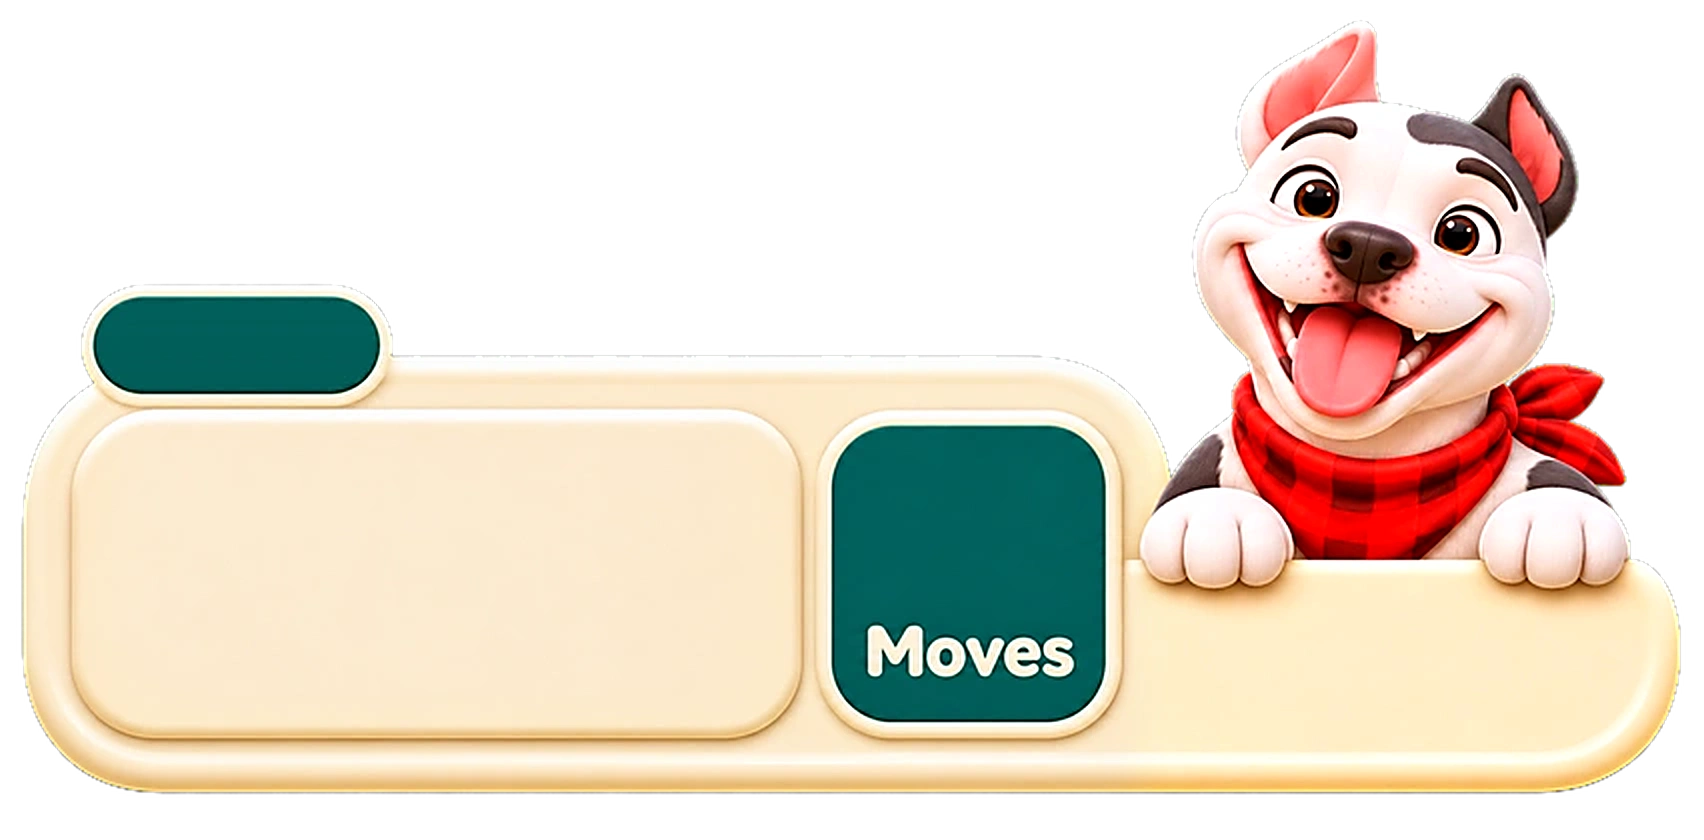
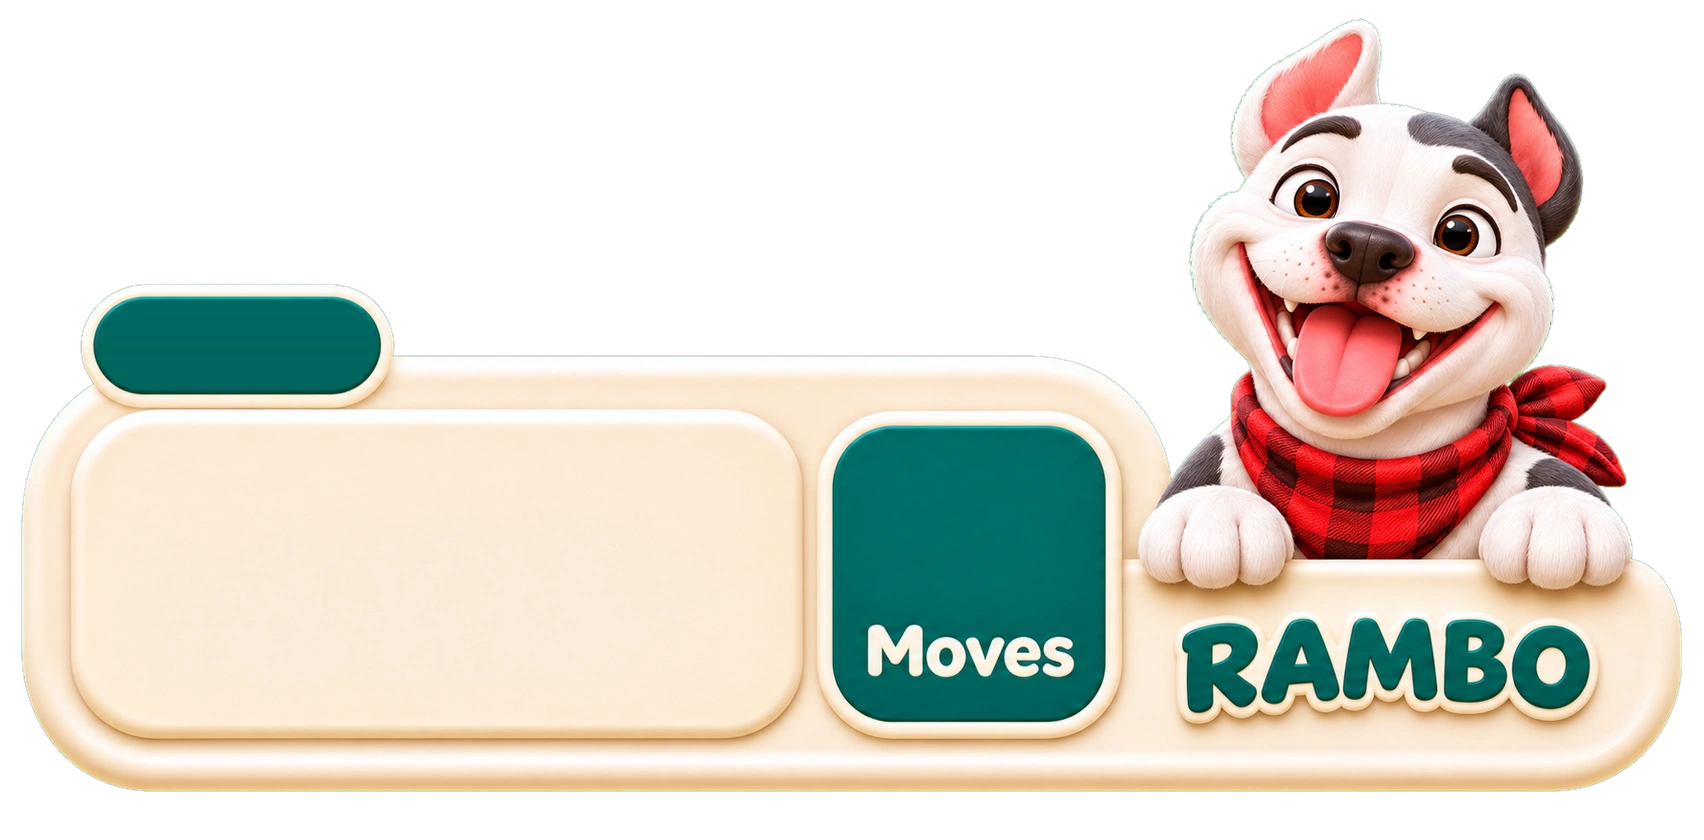
Top bar: ChatGPT 2x RAMBO version (sharp, vibrant)
Claude-Session: https://claude.ai/code/session_01HqXo8oXM9XTGkWGnUkjv9K

diff --git a/game_new.html b/game_new.html
@@ -736,7 +736,7 @@ $('pz').onclick=()=>{if(!S)return;showOv(`<img class="ttl2" src="a/L_t_paused.we
 window.T={get S(){return S},findMove,localMatch,trySwap,startLevel,LEVELS,setFast:v=>FAST=v,tapCell};
 document.body.dataset.bt=Q.get('bt')||'cream70';document.getElementById('topw').style.transform=`translate(10px,${Q.get('hu')??14}px) scale(.9)`;if(Q.get('dof'))document.body.dataset.dof=Q.get('dof');if(Q.get('calm'))document.body.dataset.calm=Q.get('calm');document.body.dataset.hud=Q.get('hud')||'smoke';
 addEventListener("load",()=>startLevel(Math.max(0,(+Q.get("lv")||1)-1)));
-</script><script src="game_fx.js?v=23"></script><script src="rambo_live.js?v=23"></script><script src="game2_new.js?v=12"></script><script src="pop_gold.js?v=6"></script><script src="polish.js?v=3"></script><script src="frameless.js?v=13"></script><script>(function(){const _sl=window.startLevel,lv0=+(new URLSearchParams(location.search).get('lv')||1);window.startLevel=function(n,o){if(Math.floor(n/10)!==Math.floor((lv0-1)/10))return location.replace('game_new.html?lv='+(n+1));return _sl(n,o)}})();
+</script><script src="game_fx.js?v=23"></script><script src="rambo_live.js?v=23"></script><script src="game2_new.js?v=12"></script><script src="pop_gold.js?v=6"></script><script src="polish.js?v=3"></script><script src="frameless.js?v=14"></script><script>(function(){const _sl=window.startLevel,lv0=+(new URLSearchParams(location.search).get('lv')||1);window.startLevel=function(n,o){if(Math.floor(n/10)!==Math.floor((lv0-1)/10))return location.replace('game_new.html?lv='+(n+1));return _sl(n,o)}})();
 (function(){
 // ===== Which background each chapter uses (easy to swap) =====
 // s01 Teal woodland · s02 Blue backyard · s03 Rooftops · s04 Streetlamps · s05 Mountains · s06 Rolling hills

diff --git a/frameless.js b/frameless.js
@@ -17,7 +17,7 @@ function build(){const h=document.getElementById('g2hud');if(!h||!document.getEl
  // main goals bar, moves pill, level tag (852-unit layout of the approved mockup)
  const RV=new URLSearchParams(location.search).get('rv')||'art';ram.dataset.ar=0.744;
  if(RV=='art'){
-  const t=new Image();t.className='flp';t.src='bovo11/play2/topbar2x.webp?v=1';Object.assign(t.style,{left:u(43),top:u(118),width:u(766.8000000000001),height:u(378.0)});h.insertBefore(t,h.firstChild);
+  const t=new Image();t.className='flp';t.src='bovo11/play2/topbar2x.webp?v=2';Object.assign(t.style,{left:u(43),top:u(118),width:u(766.8000000000001),height:u(378.0)});h.insertBefore(t,h.firstChild);
   ram.style.display='none';h.dataset.art=1;
  }else if(RV=='peek'){
   // Rambo peeks over the top of one full-width bar (bar in front of him)
